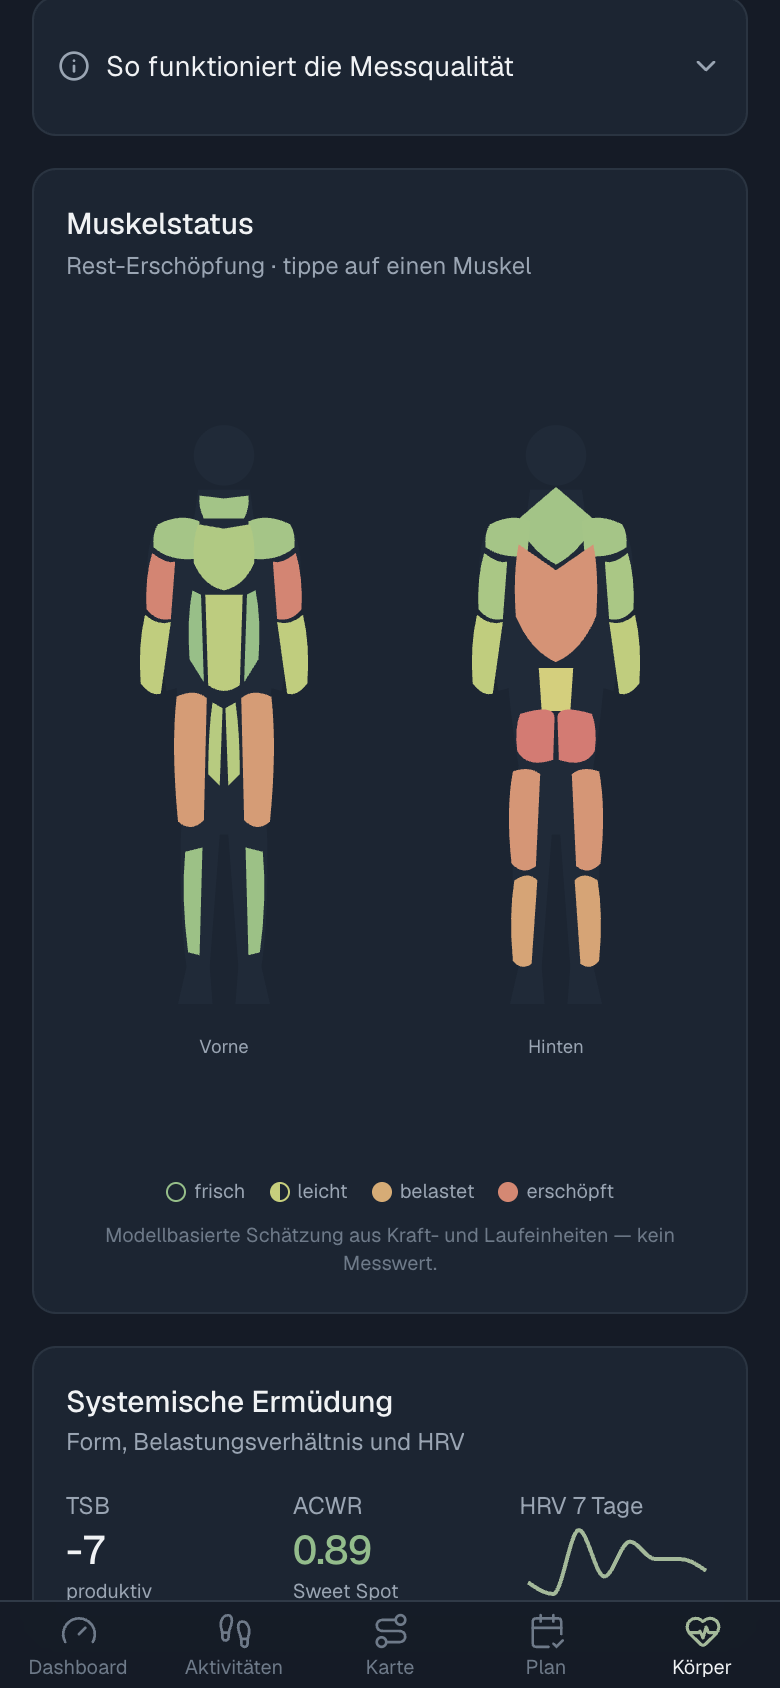
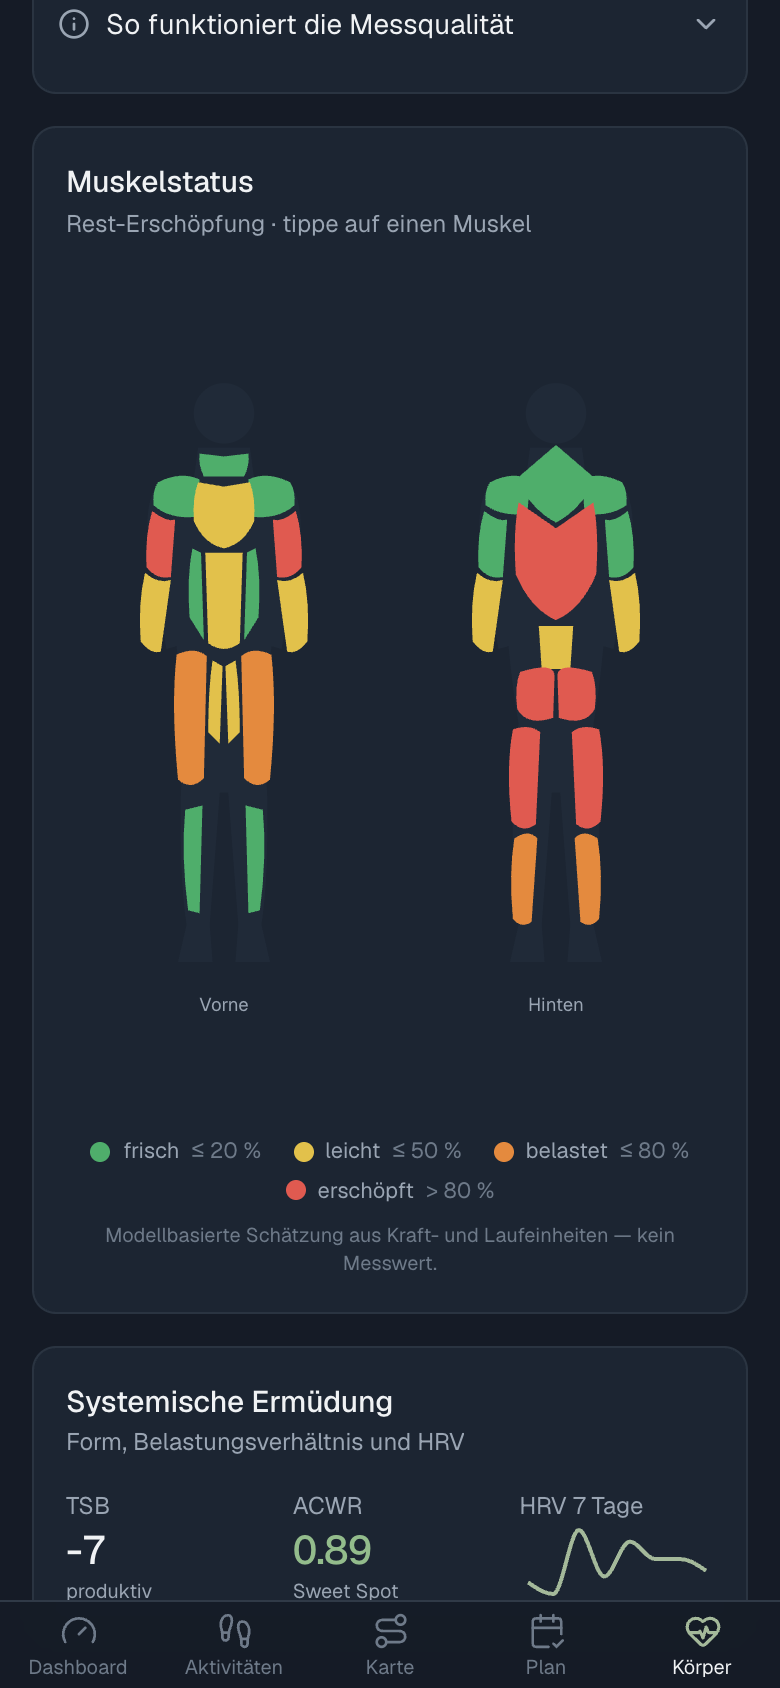
fix: deutlich unterscheidbare Farben im Muskelstatus
- Vier klar getrennte Stufen statt gedämpftem Verlauf: frisch (grün,
  ≤ 20 %), leicht (gelb, ≤ 50 %), belastet (orange, ≤ 80 %),
  erschöpft (rot, > 80 %)
- Legende mit Grenzwerten, Stufe zusätzlich im Muskel-Detail
- Tests für die Stufen, README-Screenshot erneuert

Closes #9

diff --git a/components/body/body-tab.tsx b/components/body/body-tab.tsx
@@ -15,6 +15,8 @@ import { GewichtBereich } from "./gewicht-bereich";
 import { MiniSparkline } from "@/components/dashboard/fitness-chart";
 import {
   erschoepfungFarbe,
+  erschoepfungsStufe,
+  ERSCHOEPFUNGS_STUFEN,
   MUSKEL_NAME,
   MuskelId,
 } from "@/lib/engine/muscle";
@@ -101,29 +103,15 @@ export function BodyTab() {
           onSelect={setAusgewaehlt}
           ausgewaehlt={ausgewaehlt}
         />
-        {/* Legende: auch ohne Farbe unterscheidbar (Outline / halb / voll) */}
-        <div className="mt-3 flex items-center justify-center gap-3 text-[10px] text-muted-foreground">
-          {[
-            { label: "frisch", p: 5, fill: 0 },
-            { label: "leicht", p: 35, fill: 1 },
-            { label: "belastet", p: 65, fill: 2 },
-            { label: "erschöpft", p: 90, fill: 3 },
-          ].map((l) => (
-            <span key={l.label} className="flex items-center gap-1">
-              <span
-                className="size-2.5 rounded-full border"
-                style={{
-                  borderColor: erschoepfungFarbe(l.p),
-                  borderWidth: l.fill === 3 ? 2 : 1,
-                  background:
-                    l.fill === 0
-                      ? "transparent"
-                      : l.fill === 1
-                        ? `linear-gradient(90deg, ${erschoepfungFarbe(l.p)} 50%, transparent 50%)`
-                        : erschoepfungFarbe(l.p),
-                }}
-              />
-              {l.label}
+        {/* Legende: vier Stufen mit Grenzwerten; Farbe und Text zusammen */}
+        <div className="mt-3 flex flex-wrap items-center justify-center gap-x-4 gap-y-1 text-[11px] text-muted-foreground">
+          {ERSCHOEPFUNGS_STUFEN.map((s, i) => (
+            <span key={s.id} className="flex items-center gap-1.5">
+              <span className="size-2.5 rounded-full" style={{ background: s.farbe }} />
+              {s.label}
+              <span className="text-dim-foreground">
+                {i === ERSCHOEPFUNGS_STUFEN.length - 1 ? `> ${ERSCHOEPFUNGS_STUFEN[i - 1].bis} %` : `≤ ${s.bis} %`}
+              </span>
             </span>
           ))}
         </div>
@@ -225,7 +213,7 @@ export function BodyTab() {
                   {MUSKEL_NAME[ausgewaehlt]}
                 </SheetTitle>
                 <SheetDescription>
-                  Rest-Erschöpfung {Math.round(wert)} % ·{" "}
+                  Rest-Erschöpfung {Math.round(wert)} % ({erschoepfungsStufe(wert).label}) ·{" "}
                   {wert <= 20
                     ? "voll belastbar"
                     : `voll belastbar in ~${daten.belastbarInH[ausgewaehlt] ?? 0} h`}

diff --git a/lib/engine/muscle.ts b/lib/engine/muscle.ts
@@ -410,16 +410,34 @@ export function stundenBisBelastbar(
   return tau * Math.log(aktuellProzent / zielProzent);
 }
 
+export type ErschoepfungsStufe = "frisch" | "leicht" | "belastet" | "erschoepft";
+
 /**
- * Gedämpfte Ampelfarbe (HSL-interpoliert) für Rest-Erschöpfung 0–100 %,
- * passend zu den Statusfarben in app/globals.css.
+ * Stufen der Rest-Erschöpfung mit klar getrennten Ampelfarben
+ * (Grün · Gelb · Orange · Rot). Bewusst Stufen statt Verlauf: Ein
+ * belasteter Muskel soll sich auf einen Blick von einem leicht belasteten
+ * unterscheiden. „frisch" deckt sich mit „voll belastbar" (≤ 20 %).
  */
+export const ERSCHOEPFUNGS_STUFEN: readonly {
+  id: ErschoepfungsStufe;
+  label: string;
+  /** Obergrenze in Prozent (einschliesslich) */
+  bis: number;
+  farbe: string;
+}[] = [
+  { id: "frisch", label: "frisch", bis: 20, farbe: "#4fae6b" },
+  { id: "leicht", label: "leicht", bis: 50, farbe: "#e2c14b" },
+  { id: "belastet", label: "belastet", bis: 80, farbe: "#e48a3e" },
+  { id: "erschoepft", label: "erschöpft", bis: 100, farbe: "#e05a50" },
+];
+
+/** Stufe für eine Rest-Erschöpfung 0–100 % */
+export function erschoepfungsStufe(prozent: number): (typeof ERSCHOEPFUNGS_STUFEN)[number] {
+  const p = Number.isFinite(prozent) ? Math.min(100, Math.max(0, prozent)) : 0;
+  return ERSCHOEPFUNGS_STUFEN.find((s) => p <= s.bis) ?? ERSCHOEPFUNGS_STUFEN[ERSCHOEPFUNGS_STUFEN.length - 1];
+}
+
+/** Ampelfarbe der Stufe für eine Rest-Erschöpfung 0–100 % */
 export function erschoepfungFarbe(prozent: number): string {
-  // 0 % = Salbeigrün (111°, ≈ --status-green), 50 % = Ocker (46°, ≈ --status-yellow),
-  // 100 % = gedämpftes Rot (5°, ≈ --status-red)
-  const p = Math.min(100, Math.max(0, prozent)) / 100;
-  const hue = p <= 0.5 ? 111 - (111 - 46) * (p / 0.5) : 46 - (46 - 5) * ((p - 0.5) / 0.5);
-  const sat = p <= 0.5 ? 26 + (55 - 26) * (p / 0.5) : 55 - 3 * ((p - 0.5) / 0.5);
-  const light = 64 + 2 * (1 - Math.abs(p - 0.5) * 2);
-  return `hsl(${Math.round(hue)} ${Math.round(sat)}% ${Math.round(light)}%)`;
+  return erschoepfungsStufe(prozent).farbe;
 }

diff --git a/lib/engine/__tests__/muscle.test.ts b/lib/engine/__tests__/muscle.test.ts
@@ -1,6 +1,7 @@
 import { describe, expect, it } from "vitest";
 import {
   erschoepfungFarbe,
+  erschoepfungsStufe,
   lastenAusKraft,
   lastenAusLauf,
   lastenAusTemplate,
@@ -219,10 +220,23 @@ describe("lastenAusTemplate", () => {
 });
 
 describe("erschoepfungFarbe", () => {
-  it("liefert gedämpften HSL-Verlauf grün → ocker → rot", () => {
-    expect(erschoepfungFarbe(0)).toBe("hsl(111 26% 64%)");
-    expect(erschoepfungFarbe(50)).toBe("hsl(46 55% 66%)");
-    expect(erschoepfungFarbe(100)).toBe("hsl(5 52% 64%)");
+  it("ordnet vier klar getrennten Stufen zu: grün · gelb · orange · rot", () => {
+    expect([0, 20, 21, 50, 51, 80, 81, 100].map((p) => erschoepfungsStufe(p).id)).toEqual([
+      "frisch",
+      "frisch",
+      "leicht",
+      "leicht",
+      "belastet",
+      "belastet",
+      "erschoepft",
+      "erschoepft",
+    ]);
+    const farben = new Set([5, 35, 65, 90].map(erschoepfungFarbe));
+    expect(farben.size).toBe(4); // jede Stufe hat ihre eigene Farbe
+  });
+  it("klemmt ungültige Werte", () => {
     expect(erschoepfungFarbe(-10)).toBe(erschoepfungFarbe(0));
+    expect(erschoepfungFarbe(150)).toBe(erschoepfungFarbe(100));
+    expect(erschoepfungsStufe(Number.NaN).id).toBe("frisch");
   });
 });
